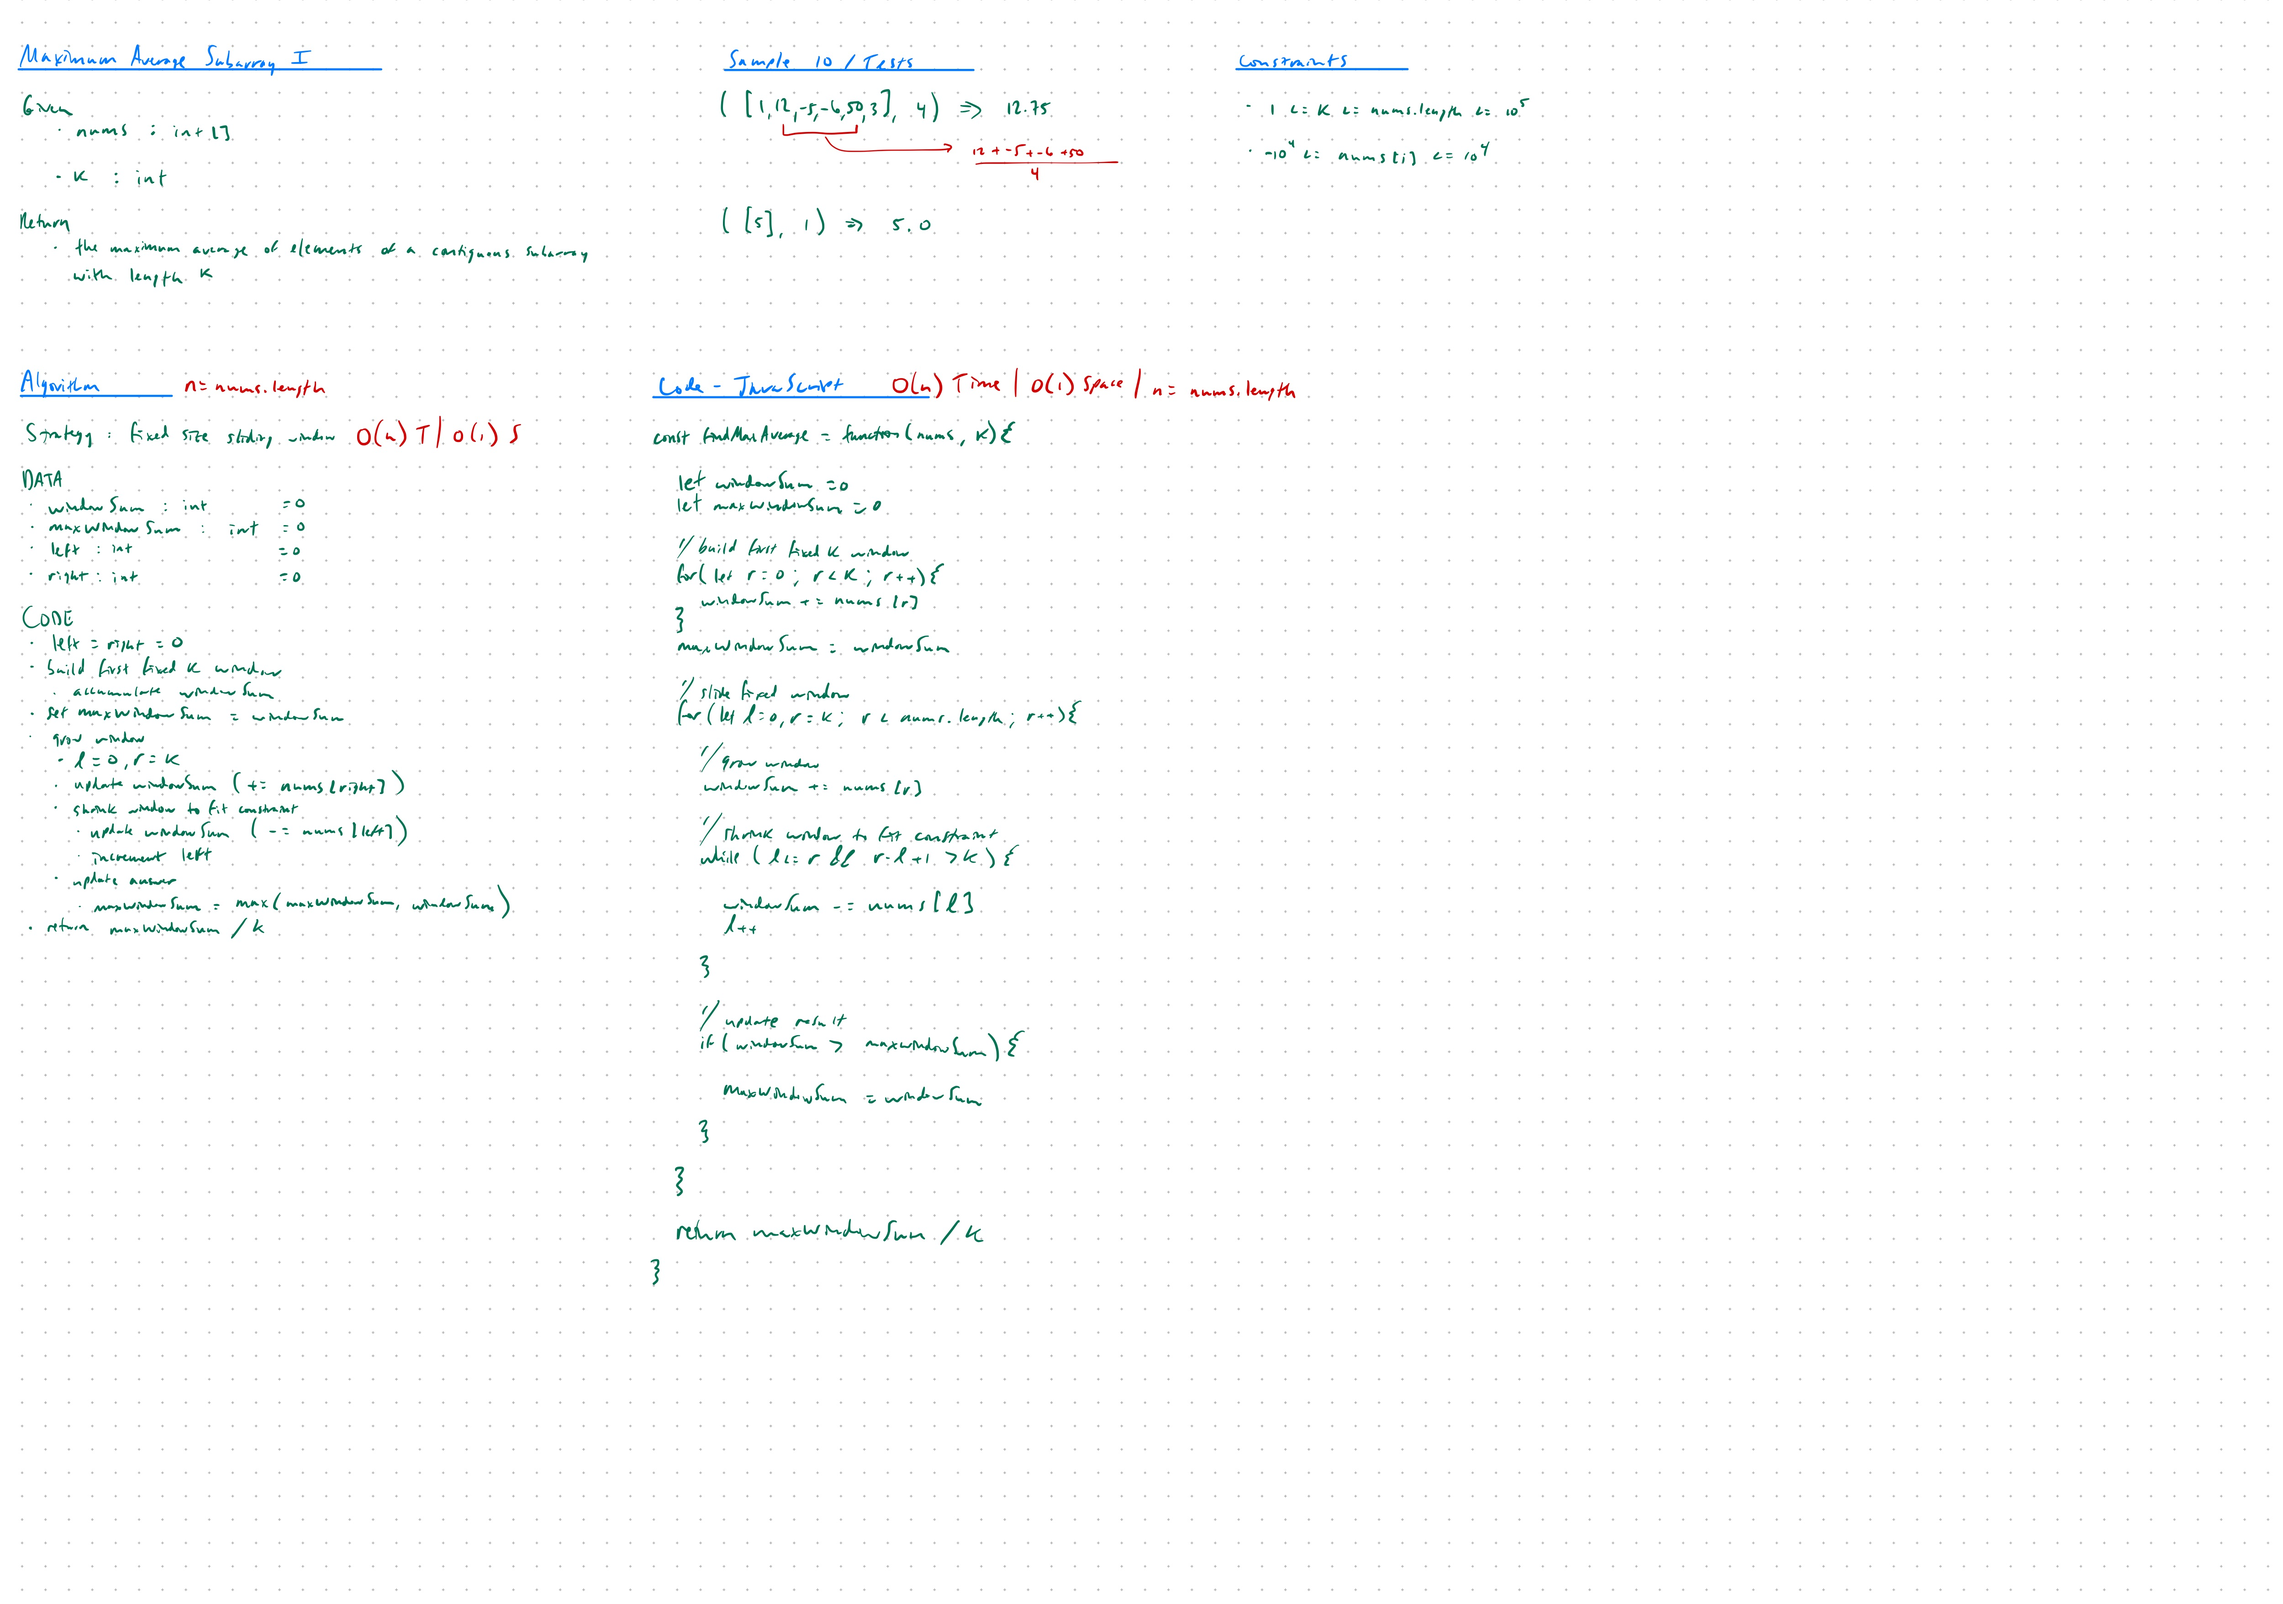
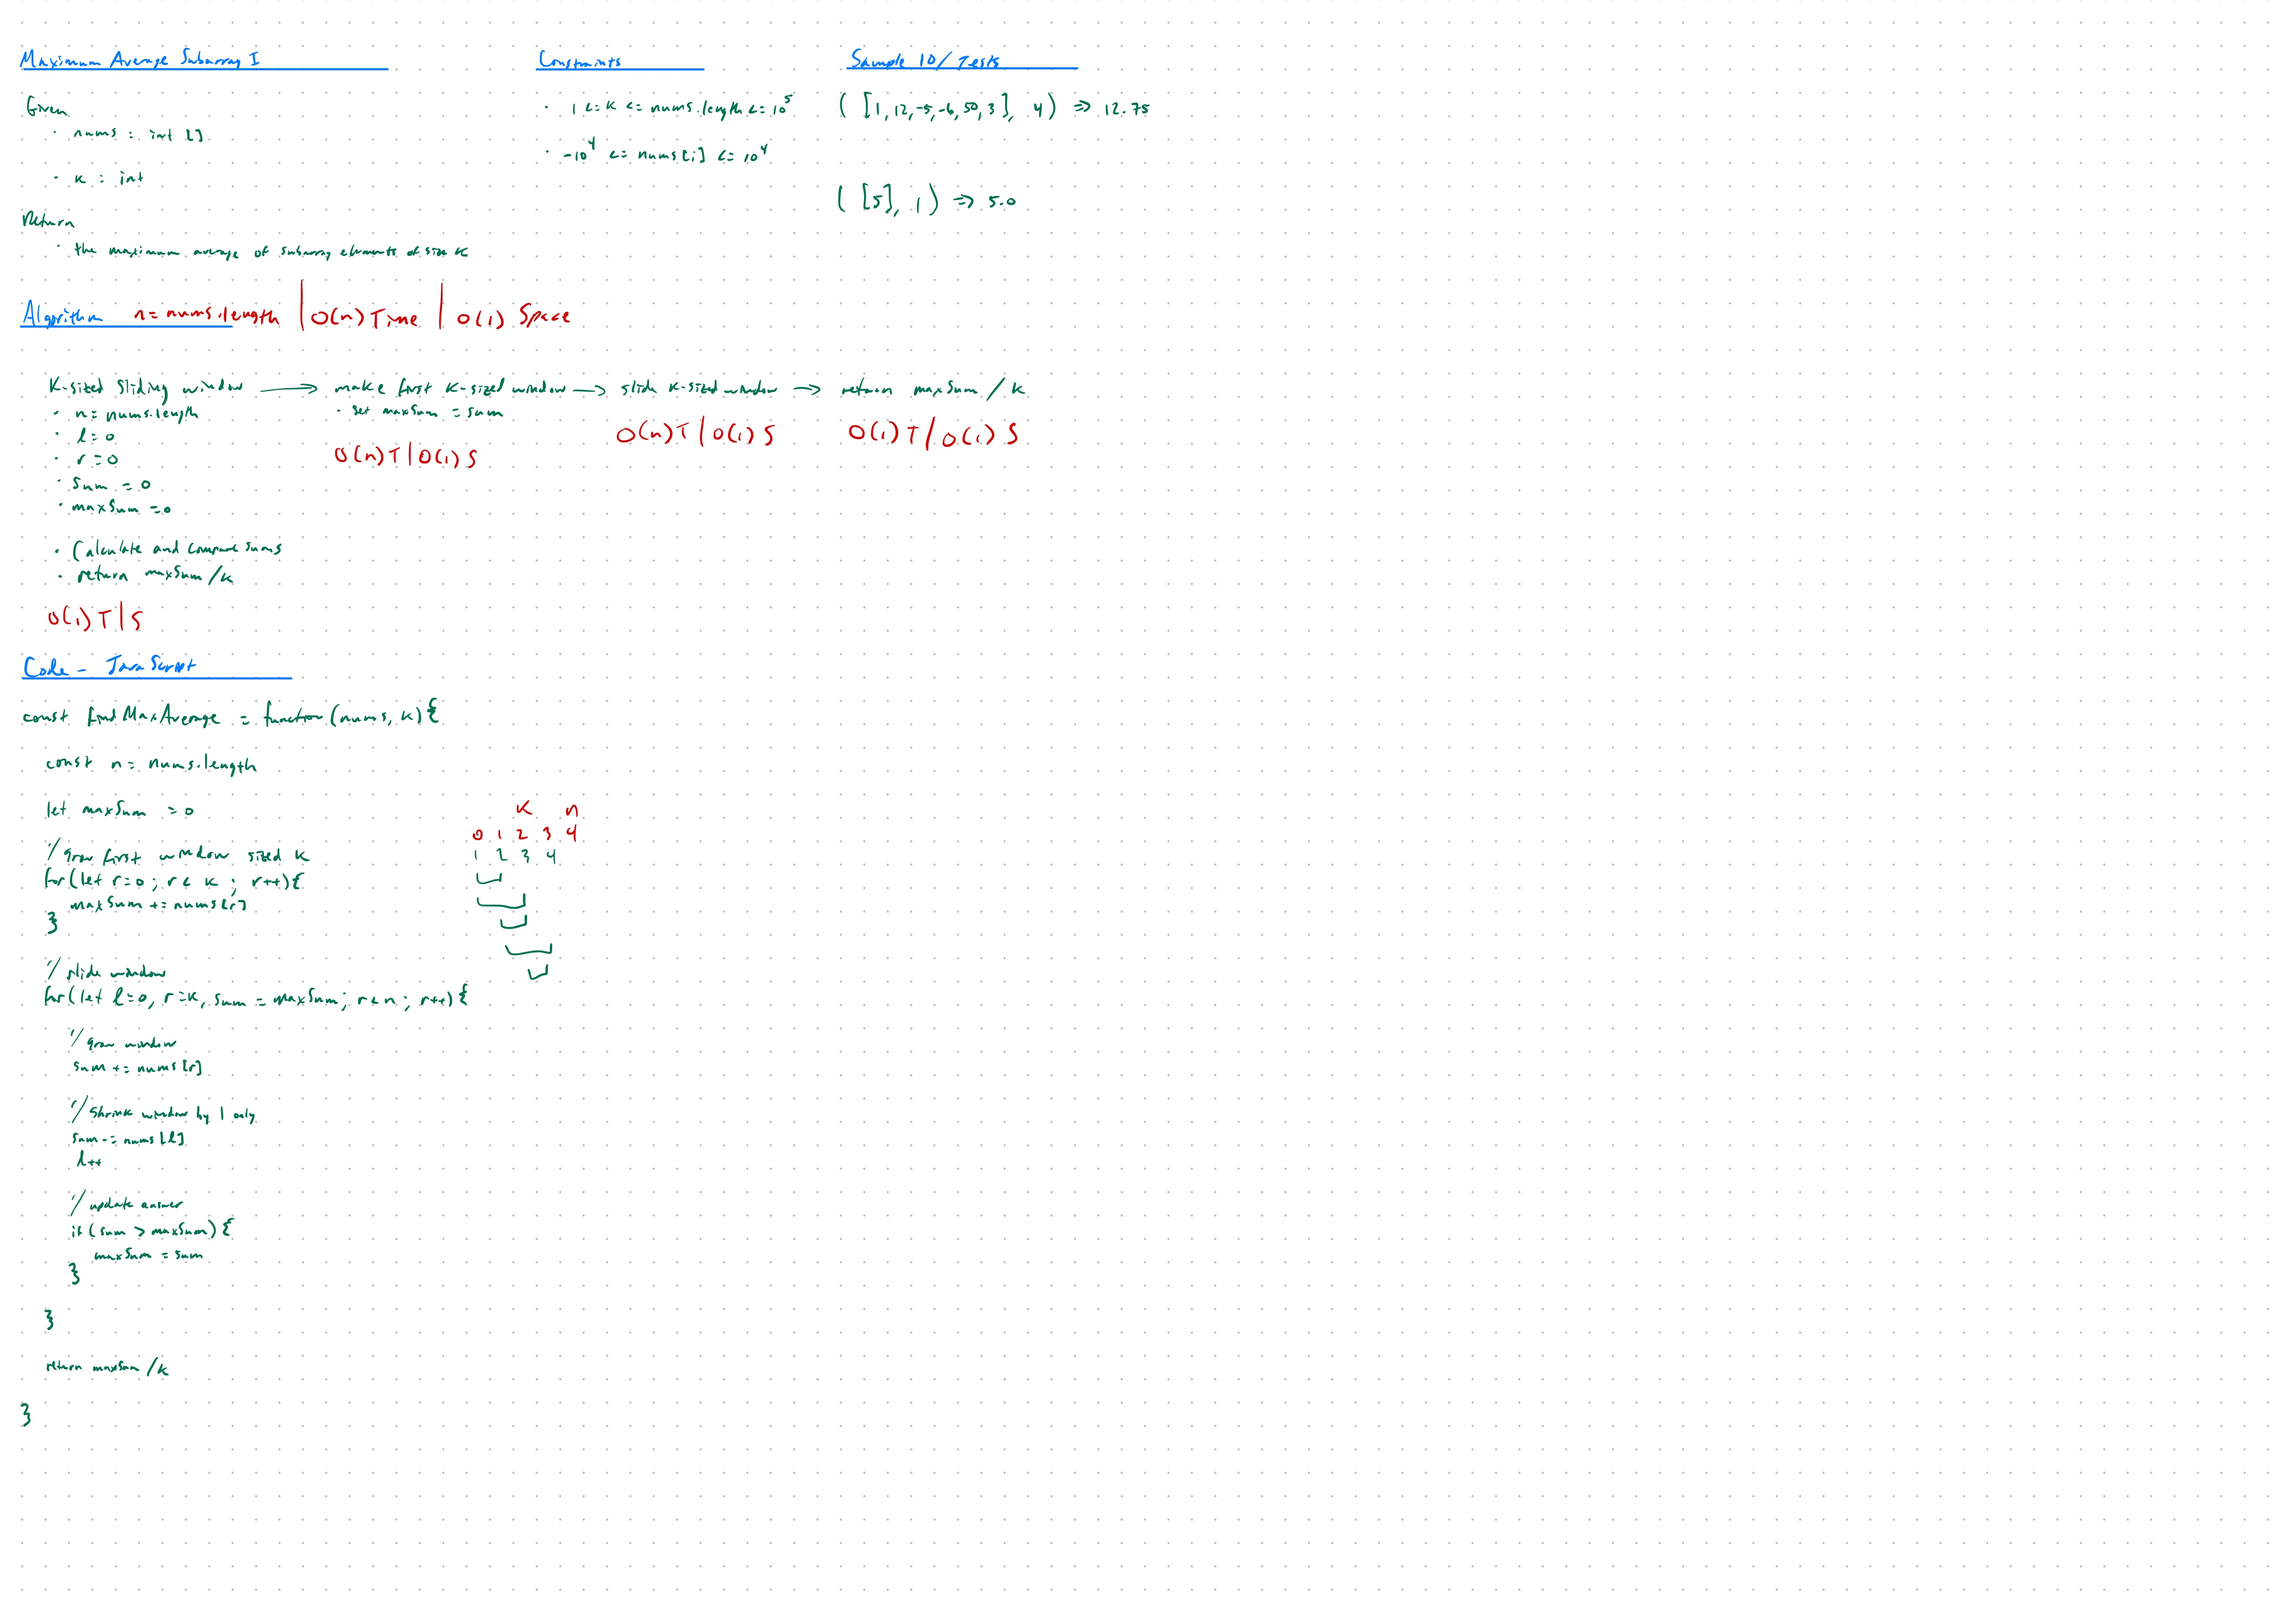
Challenge: Maximum Average Subarray I
Summary:
	- Replaced second attempt whiteboard image with cleaner one.
	- Replaced solution with second attempt solution.
	- Added two edge case tests.

diff --git a/js/algo-challenges/maximum-average-subarray-i/__tests__/maximum-average-subarray-i.tests.js b/js/algo-challenges/maximum-average-subarray-i/__tests__/maximum-average-subarray-i.tests.js
@@ -1,13 +1,35 @@
 const {findMaxAverage} = require('../index');
 
 describe('Maximum Average Subarray I', function () {
+
   it(`([1, 12, -5, -6, 50, 3], 4) => 12.75`, function () {
     const result = findMaxAverage([1, 12, -5, -6, 50, 3], 4);
     expect(result).toEqual(12.75);
   });
 
-  it(`([5], 1) => 5`, function () {
+  it(`([5], 1) => 5.0`, function () {
     const result = findMaxAverage([5], 1);
-    expect(result).toEqual(5);
+    expect(result).toEqual(5.0);
   });
+
+  it(`([-1], 1) => -1.0`, function () {
+    const result = findMaxAverage([-1], 1);
+    expect(result).toEqual(-1.0);
+  });
+
+  it(`([8860,-853,6534,4477,-4589,8646,-6155,-5577,-1656,-5779,-2619,-8604,-1358,-8009,4983,7063,3104,-1560,4080,2763,5616,-2375,2848,1394,-7173,-5225,-8244,-809,8025,-4072,-4391,-9579,1407,6700,2421,-6685,5481,-1732,-8892,-6645,3077,3287,-4149,8701,-4393,-9070,-1777,2237,-3253,-506,-4931,-7366,-8132,5406,-6300,-275,-1908,67,3569,1433,-7262,-437,8303,4498,-379,3054,-6285,4203,6908,4433,3077,2288,9733,-8067,3007,9725,9669,1362,-2561,-4225,5442,-9006,-429,160,-9234,-4444,3586,-5711,-9506,-79,-4418,-4348,-5891], 93) => -594.58065`, function () {
+    const result = findMaxAverage([
+        8860, -853, 6534, 4477, -4589, 8646, -6155, -5577, -1656, -5779, -2619,
+        -8604, -1358, -8009, 4983, 7063, 3104, -1560, 4080, 2763, 5616, -2375,
+        2848, 1394, -7173, -5225, -8244, -809, 8025, -4072, -4391, -9579, 1407,
+        6700, 2421, -6685, 5481, -1732, -8892, -6645, 3077, 3287, -4149, 8701,
+        -4393, -9070, -1777, 2237, -3253, -506, -4931, -7366, -8132, 5406,
+        -6300, -275, -1908, 67, 3569, 1433, -7262, -437, 8303, 4498, -379, 3054,
+        -6285, 4203, 6908, 4433, 3077, 2288, 9733, -8067, 3007, 9725, 9669,
+        1362, -2561, -4225, 5442, -9006, -429, 160, -9234, -4444, 3586, -5711,
+        -9506, -79, -4418, -4348, -5891],
+      93);
+    expect(Math.round(result)).toEqual(Math.round(-594.58065));
+  });
+
 });

diff --git a/js/algo-challenges/maximum-average-subarray-i/index.js b/js/algo-challenges/maximum-average-subarray-i/index.js
@@ -8,36 +8,36 @@ const findMaxAverage = function (nums, k) {
 //  n = nums.length
 //  Algorithm scales linearly with input array size.
 
-  let largestSum = 0;
-  let largestSumChanged = false;
-  let currSum = 0;
+  const n = nums.length;
 
-  for (let l = 0, r = 0; r < nums.length; r++) {
+  let maxSum = 0;
 
-    // grow window
-    currSum += nums[r];
-
-    // ensure window sized k
-    if (r - l + 1 < k) {
-      continue;
-    }
-
-    // update answer
-    if (largestSumChanged) {
-      if (currSum > largestSum) {
-        largestSum = currSum;
-      }
-    } else {
-      largestSum = currSum;
-      largestSumChanged = true;
-    }
-
-    // shrink window for next iteration
-    currSum -= nums[l];
-    l++;
+  // grow first window sized k
+  //
+  for (let r = 0; r < k; r++) {
+    maxSum += nums[r];
   }
 
-  return largestSum / k;
+  // slide window
+  //
+  for (let l = 0, r = k, sum = maxSum; r < n; r++) {
+    // grow window
+    //
+    sum += nums[r];
+
+    // shrink window by 1 only
+    //
+    sum -= nums[l];
+    l++;
+
+    // update answer
+    //
+    if (sum > maxSum) {
+      maxSum = sum;
+    }
+  }
+
+  return maxSum / k;
 };
 
 module.exports = {
